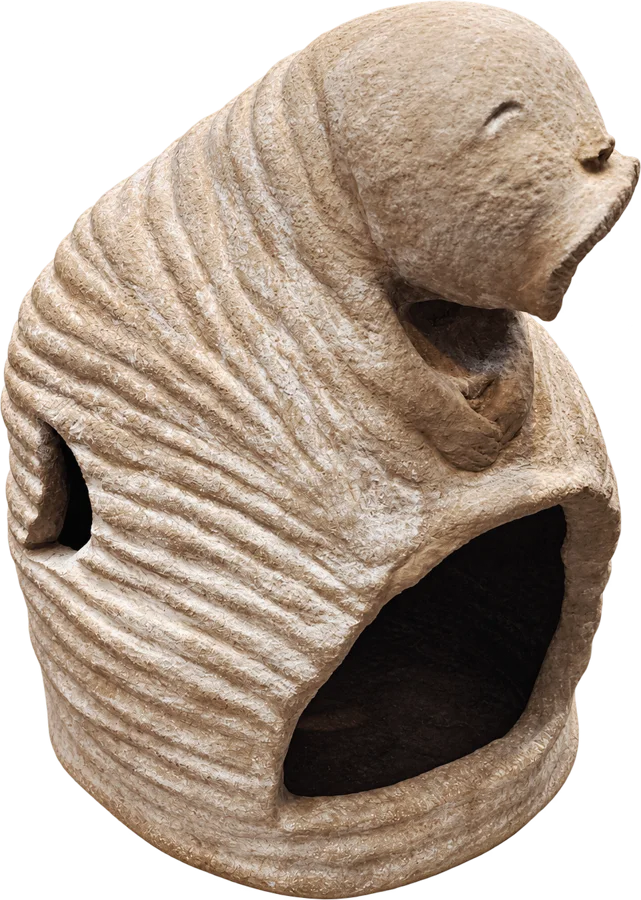
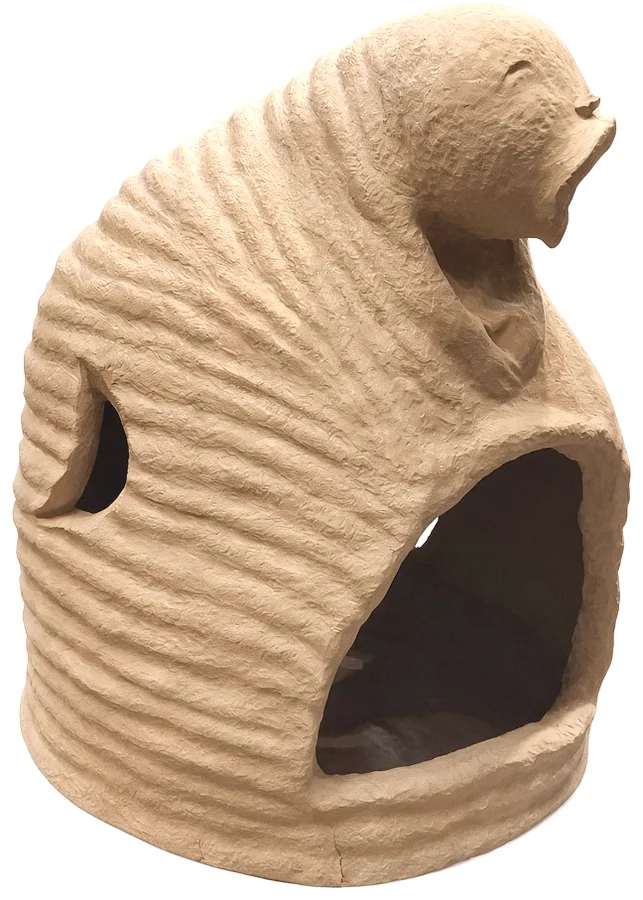
시민작가 17인 목록: 대형 울림통 사진 교체(채도·대비 맞춤), 모뉴먼트 섬네일 롤오버 시 푸른 모뉴먼트로

diff --git a/app/_components/artist-index-page.js b/app/_components/artist-index-page.js
@@ -73,16 +73,20 @@ const CSS = `
   .xi-members a:focus-visible { outline:2px solid var(--xp-blue); outline-offset:2px; }
   .xi-mons { display:flex; flex-wrap:wrap; align-items:flex-end; gap:14px 18px; margin:22px 0 0; padding:0; list-style:none; }
   .xi-mons a { position:relative; display:block; }
-  .xi-mons img { display:block; height:54px; width:auto; transition:transform .25s ease; }
+  .xi-mons img { display:block; height:54px; width:auto; transition:opacity .3s ease; }
+  /* 롤오버 — 작품 섬네일이 홍보물의 푸른 망점 모뉴먼트로 바뀐다(17인 카드와 같은 이미지) */
+  .xi-mons .xi-mons-blue { position:absolute; left:50%; bottom:0; height:54px; width:auto; max-width:none; transform:translateX(-50%); opacity:0; transition:opacity .3s ease; }
   .xi-mons i { position:absolute; top:-6px; right:-10px; color:var(--xp-blue); font-style:normal; font-size:13px; font-weight:500; }
   .xi-big-pic { position:relative; height:330px; }
-  .xi-big-pic img { position:absolute; height:118%; width:auto; max-width:none; }
+  /* 흰 배경 사진을 곱하기로 얹어 카드 바탕색에 녹인다 */
+  .xi-big-pic img { position:absolute; height:118%; width:auto; max-width:none; mix-blend-mode:multiply; }
   .xi-big.bleed-left .xi-big-pic img { left:-14%; bottom:-8%; }
   .xi-big.bleed-right .xi-big-pic img { right:-12%; bottom:-6%; }
   @media (hover:hover) and (pointer:fine) {
     .xi-members a:hover { color:var(--xp-blue); }
     .xi-leaflet:hover { background:var(--xp-blue); color:#fff; }
-    .xi-mons a:hover img { transform:translateY(-4px); }
+    .xi-mons a:hover img:not(.xi-mons-blue) { opacity:0; }
+    .xi-mons a:hover .xi-mons-blue { opacity:1; }
   }
   @media (min-width:760px) {
     .xi-intro { margin-bottom:72px; }
@@ -167,11 +171,13 @@ export default function ArtistIndexPage({ artists }) {
               </ol>
               <ul className="xi-mons" aria-hidden="true">
                 {work.members.map((member) => {
-                  const image = byName.get(member.name)?.profile?.workImage;
+                  const profile = byName.get(member.name)?.profile;
+                  const image = profile?.workImage;
                   return image ? (
                     <li key={member.no}>
                       <a href={`/artist/${encodeURIComponent(member.name)}`} tabIndex={-1}>
                         <img src={image} alt="" loading="lazy" />
+                        {profile.monument ? <img className="xi-mons-blue" src={profile.monument} alt="" loading="lazy" /> : null}
                         <i>{member.no}</i>
                       </a>
                     </li>
